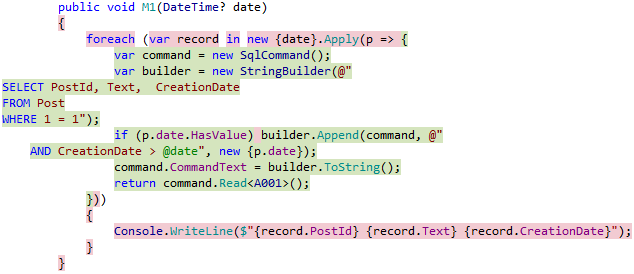
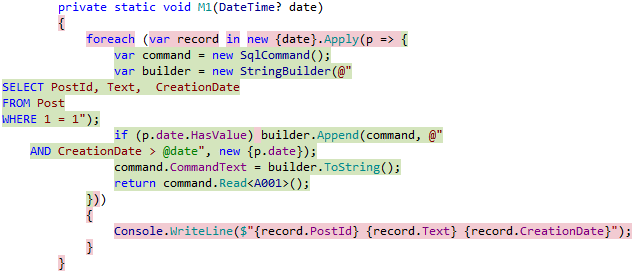
fixed README.md

diff --git a/QueryLifting/SqlUtil.cs b/QueryLifting/SqlUtil.cs
@@ -361,6 +361,7 @@ WHERE {whereClause}", p).ToString();
         private static List<ColumnInfo> GetColumns(string table, Option<string> connectionString)
         {
             List<ColumnInfo> value;
+            //TODO: add connection string to key
             if (!columnDictionary.TryGetValue(table, out value))
             {
                 value = GetColumnEnumerable(table, connectionString).ToList();
@@ -379,7 +380,7 @@ WHERE {whereClause}", p).ToString();
                 connection.Open();
                 using (var command = connection.CreateCommand())
                 {
-                    command.CommandText = "SELECT * FROM " + table;
+                    command.CommandText = $"SELECT * FROM {table}";
                     using (var reader = command.ExecuteReader(CommandBehavior.SchemaOnly | CommandBehavior.KeyInfo))
                     {
                         var schemaTable = reader.GetSchemaTable();

diff --git a/Foo/Program.cs b/Foo/Program.cs
@@ -14,13 +14,13 @@ namespace Foo
         {
             ConnectionStringFunc = () => ConnectionString;
 
+            M1(new DateTime(2015, 1, 1));
             M2();
-            M1();
         }
 
-        private static void M1()
+        private static void M1(DateTime? date)
         {
-            foreach (var record in new {date = (DateTime?) new DateTime(2015, 1, 1)}.Apply(p => {
+            foreach (var record in new {date}.Apply(p => {
                 var command = new SqlCommand();
                 var builder = new StringBuilder(@"
 SELECT PostId, Text,  CreationDate

diff --git a/README.md b/README.md
@@ -1,5 +1,17 @@
 # QueryLifting
-Query Lifting is a technique to check SQL queries expressed as simple strings.
+Query Lifting is a technique to check SQL queries that are expressed as simple strings.
 
-[Code](Foo/Foo.cs#L13) coverage (highlighted by [dotCover](https://www.jetbrains.com/help/dotcover/10.0/Visualizing_Code_Coverage.html)):  
-![Code coverage](Images/CodeCoverage.png?raw=true "Code coverage")
+The [test](Foo.Tests/Tests.cs#L15) covers [code fragments](Foo/Program.cs#L24) that contain queries 
+(highlighted by [dotCover](https://www.jetbrains.com/help/dotcover/10.0/Visualizing_Code_Coverage.html)):  
+![Code coverage](Images/CodeCoverage.png?raw=true "Code coverage")  
+The test [executes](https://msdn.microsoft.com/en-us/library/y6wy5a0f(v=vs.100))
+SQL queries in
+[SchemaOnly](https://msdn.microsoft.com/en-us/library/system.data.commandbehavior(v=vs.100))
+mode.
+The test checks match of
+[columns names and types in the query](Foo/Program.cs#L26)
+and the [properties of C# class](Foo/AnonymousTypes.cs#L8).
+If there is no match then the test 
+[writes to console](Foo.Tests/QueryChecker.cs#L77)
+the [code of class](Foo/AnonymousTypes.cs#L6) 
+with correct set of properties.
